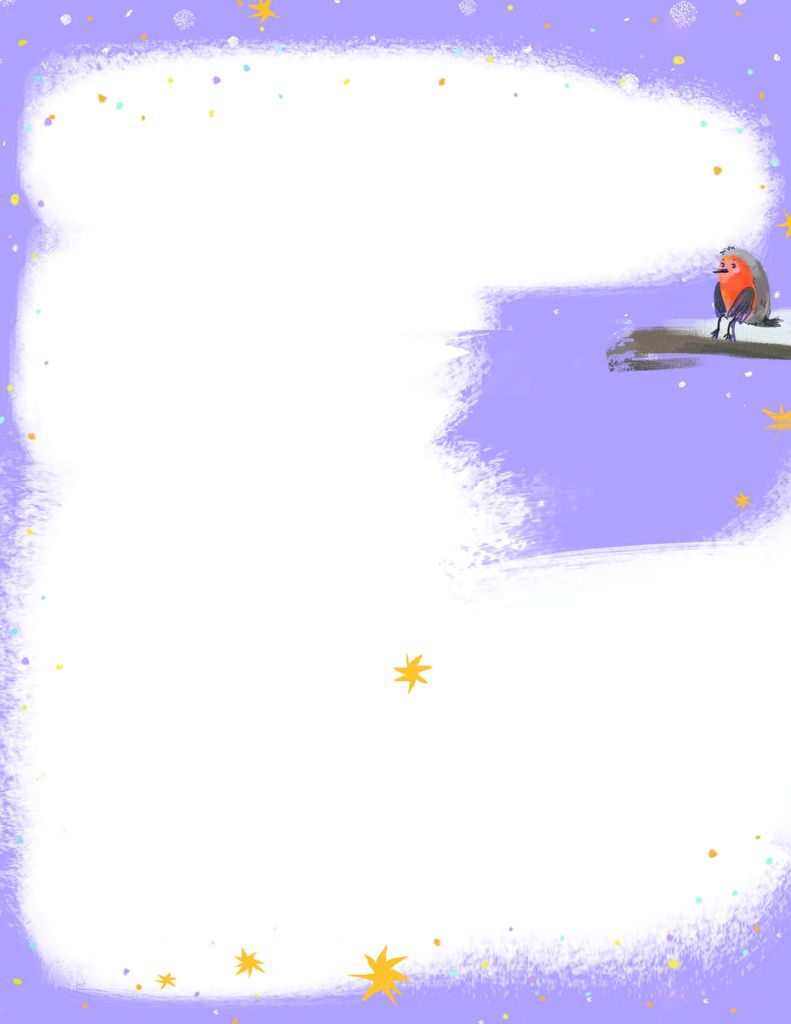
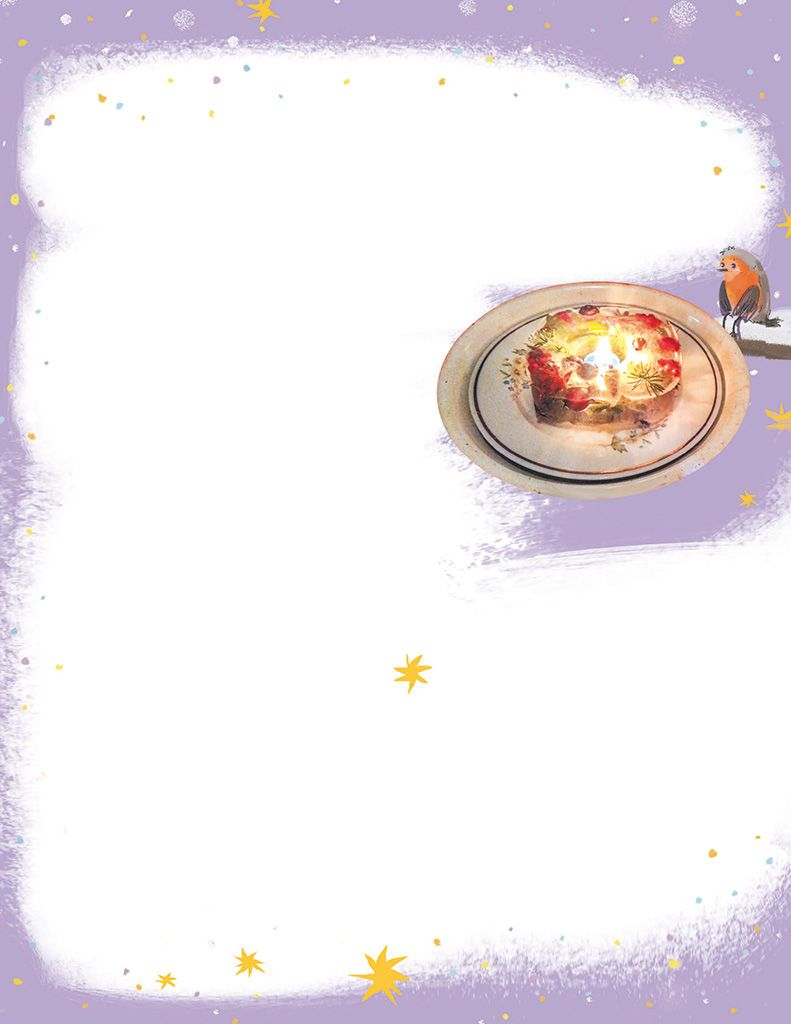
Сверстаны страницы 8, 9

Changed region(s): [[0.0, 0.0, 1.0, 1.0]]

diff --git a/p09.html b/p09.html
@@ -1,0 +1,160 @@
+<!DOCTYPE html>
+<html lang="rus">
+<head>
+	<meta charset="UTF-8">
+	<meta name="viewport" content="width=device-width, initial-scale=1.0">
+	<title>Страница 9</title>
+	<!-- Latest compiled and minified CSS -->
+	<link rel="stylesheet" href="https://maxcdn.bootstrapcdn.com/bootstrap/4.1.0/css/bootstrap.min.css">
+	<link rel="stylesheet" href="lightzoom/style.css" type="text/css">
+	<link rel="stylesheet" href="main.css">
+	<script src="https://ajax.googleapis.com/ajax/libs/jquery/2.2.4/jquery.min.js"></script>
+</head>
+<body>
+	<div class="main-container">
+		<div class="wrap-page">
+			<div class="page">
+				<div class="page__bg"><img src="img/bg/bg09.jpg"></div>
+                <div class="page__layer"></div>
+				<div class="wrap-content d-flex">
+					<div class="container-fluid">
+                        <div class="row content__row">
+                            <div class="col-12 col-sm-7">
+                                <div class="content__item">
+                                    <div class="content__text_wrapper">
+                                        <div class="content__text">
+                                            <p><span class="number color-white bg-color-orange">3.</span> Размести маленькую бутылку (так, что бы она не падала) в центре большой <i>(фото 3)</i>.</p>
+                                        </div>
+                                    </div>
+                                </div>
+                            </div>
+                            <div class="col-12 col-sm-5">
+                                <div class="content__item">
+                                    <a href="img/p09-3b.jpg" class="lightzoom">
+                                        <img src="img/p09-3s.jpg" alt="Рисунок 3" class="img-fluid">
+                                    </a>
+                                    <div class="content__marker color-orange">
+                                        3
+                                    </div>
+                                </div>
+                            </div>
+                        </div>
+                        <div class="row content__row">
+                            <div class="col-12 col-sm-7">
+                                <div class="content__item">
+                                    <div class="content__text_wrapper">
+                                        <div class="content__text">
+                                            <p><span class="number color-white bg-color-orange">4.</span> Залей свою природную композицию водой (следи, чтобы бутылка с камешками несмеща лась) и поставь в морозильник на сутки.</p>
+                                        </div>
+                                    </div>
+                                </div>
+                            </div>
+                        </div>
+                        <div class="row content__row">
+                            <div class="col-12 col-sm-7">
+                                <div class="content__item">
+                                    <div class="content__text_wrapper">
+                                        <div class="content__text">
+                                            <p><span class="number color-white bg-color-orange">5.</span> Накипяти воды и заполни ею большую глубокую миску на треть. Помести замёрзшую заго товку в миску с кипятком (вода должна подняться чуть выше ледяной кромки). Минут через 5 лёд по краю под свечника подтает <i>(фото 4)</i></p>
+                                        </div>
+                                    </div>
+                                </div>
+                            </div>
+                            <div class="col-12 col-sm-5">
+                                <div class="content__item">
+                                    <a href="img/p09-4b.jpg" class="lightzoom">
+                                        <img src="img/p09-4s.jpg" alt="Рисунок 4" class="img-fluid">
+                                    </a>
+                                    <div class="content__marker color-orange">
+                                        4
+                                    </div>
+                                </div>
+                            </div>
+                        </div>
+                        <div class="row content__row">
+                            <div class="col-12 col-sm-7">
+                                <div class="content__item">
+                                    <div class="content__text_wrapper">
+                                        <div class="content__text">
+                                            <p><span class="number color-white bg-color-orange">6.</span> Извлеки подсвечник из пластиковой основы, потянув за маленькую бутылку <i>(фото 5)</i>.</p>
+                                        </div>
+                                    </div>
+                                </div>
+                            </div>
+                            <div class="col-12 col-sm-5">
+                                <div class="content__item">
+                                    <a href="img/p09-5b.jpg" class="lightzoom">
+                                        <img src="img/p09-5s.jpg" alt="Рисунок 5" class="img-fluid">
+                                    </a>
+                                    <div class="content__marker color-orange">
+                                        5
+                                    </div>
+                                </div>
+                            </div>
+                        </div>
+                        <div class="row content__row">
+                            <div class="col-12 col-sm-7">
+                                <div class="content__item">
+                                    <div class="content__text_wrapper">
+                                        <div class="content__text">
+                                            <p><span class="number color-white bg-color-orange">7.</span> Теперь достань камешки и заполни кипятком маленькую бутылку, достань её через несколько минут <i>(фото 6)</i>.</p>
+                                        </div>
+                                    </div>
+                                </div>
+                            </div>
+                            <div class="col-12 col-sm-5">
+                                <div class="content__item">
+                                    <a href="img/p09-6b.jpg" class="lightzoom">
+                                        <img src="img/p09-6s.jpg" alt="Рисунок 6" class="img-fluid">
+                                    </a>
+                                    <div class="content__marker color-orange">
+                                        6
+                                    </div>
+                                </div>
+                            </div>
+                        </div>
+                        <div class="row content__row">
+                            <div class="col-12 col-sm-7">
+                                <div class="content__item">
+                                    <div class="content__text_wrapper">
+                                        <div class="content__text">
+                                            <p><span class="number color-white bg-color-orange">8.</span> Подсвечник готов! Осталось поместить в центр свечку <i>(фото 7)</i>.</p>
+                                        </div>
+                                    </div>
+                                </div>
+                            </div>
+                            <div class="col-12 col-sm-5">
+                                <div class="content__item">
+                                    <a href="img/p09-7b.jpg" class="lightzoom">
+                                        <img src="img/p09-7s.jpg" alt="Рисунок 7" class="img-fluid">
+                                    </a>
+                                    <div class="content__marker color-orange">
+                                        7
+                                    </div>
+                                </div>
+                            </div>
+                        </div>
+                        <div class="row content__row">
+                            <div class="col-12">
+                                <div class="content__item">
+                                    <div class="content__text_wrapper">
+                                        <div class="content__text">
+                                            <p class="text-indent">Ты, конечно, понимаешь, что при использовании такой подсвечник растает. По этому, пе ред тем как зажечь свечу, размести его в глубокой ёмкости.</p>
+                                        </div>
+                                    </div>
+                                </div>
+                            </div>
+                        </div>
+					</div>
+				</div>
+			</div>
+		</div>
+	</div>
+<script src="lightzoom/lightzoom.js"></script>
+
+<script type="text/javascript">
+  jQuery('.lightzoom').lightzoom();
+</script>
+
+</body>
+</html>

diff --git a/p08.html b/p08.html
@@ -15,6 +15,7 @@
 		<div class="wrap-page">
 			<div class="page page_8">
 				<div class="page__bg"><img src="img/bg/bg08.jpg"></div>
+                <div class="page__layer"></div>
 				<div class="wrap-content d-flex">
 					<div class="container-fluid">
 						<div class="row content__row">
@@ -43,7 +44,7 @@
                                     <div class="content__text_wrapper">
                                         <div class="content__text">
                                             <p class="content__title_pill color-white bg-color-orange">Тебе понадобится:</p>
-                                            <ul>
+                                            <ul class="page_8">
                                                 <li>две пластиковые бутылки&nbsp;— на 3 литра и на пол-литра;</li>
                                                 <li>камешки;</li>
                                                 <li>природный материал;</li>
@@ -68,7 +69,12 @@
                             </div>
                             <div class="col-12 col-sm-5">
                                 <div class="content__item">
-                                    <img src="img/p08-2s.jpg" alt="Рисунок 1" class="lightzoom">
+                                    <a href="img/p08-1b.jpg" class="lightzoom">
+                                        <img src="img/p08-1s.jpg" alt="Рисунок 1" class="img-fluid">
+                                    </a>
+                                    <div class="content__marker color-orange">
+                                        1
+                                    </div>
                                 </div>
                             </div>
                         </div>
@@ -84,7 +90,12 @@
                             </div>
                             <div class="col-12 col-sm-5">
                                 <div class="content__item">
-                                    <img src="img/p08-2s.jpg" alt="Рисунок 2">
+                                    <a href="img/p08-2b.jpg" class="lightzoom">
+                                        <img src="img/p08-2s.jpg" alt="Рисунок 2" class="img-fluid">
+                                    </a>
+                                    <div class="content__marker color-orange">
+                                        2
+                                    </div>
                                 </div>
                             </div>
                         </div>

diff --git a/main.css b/main.css
@@ -10,6 +10,16 @@ img {
 }
 
 /* Копировать отсюда */
+.order-1 {
+	-ms-flex-order: 1;
+	order: 1;
+}
+
+.order-2 {
+	-ms-flex-order: 2;
+	order: 2;
+}
+
 .color-purple {
 	color: #894E9F;
 }
@@ -64,6 +74,18 @@ img {
 	width: 100%;
 }
 
+@media only screen and (max-width: 768px) {
+	.page__layer {
+		position: absolute;
+		top: 0;
+		bottom: 0;
+		left: 0;
+		right: 0;
+		background-color: rgba(255, 255, 255, .4);
+	}
+}
+
+
 .wrap-content {
 	position: absolute;
 	top: 5%;
@@ -89,6 +111,21 @@ img {
 	font-size: 18px;
 }
 
+.content__qr {
+	max-width: 140px;
+	position: relative;
+}
+
+.content__qr_img {
+	position: absolute;
+	width: 28%;
+	top: 47%;
+    left: 47%;
+    margin-right: -50%;
+    transform: translate(-50%, -50%);
+
+}
+
 .content__author {
 	text-align: center;
     line-height: 1;
@@ -112,11 +149,11 @@ img {
 	font-size: 1.5em;
     text-align: center;
     line-height: 1;
-    margin-bottom: 2rem;
+    margin-bottom: 1.3rem;
 }
 
 .content__title_pill {
-	font-size: 1.6em;
+	font-size: 1.4em;
     line-height: 1;
     display: inline-block;
     padding: .25em .9em;
@@ -130,6 +167,20 @@ img {
 
 .page_8 .content__title {
 	font-size: 2.8em;
+	margin-bottom: 1.3rem;
+}
+
+ul.page_8 {
+	list-style-type: none;
+	padding-left: 1em;
+}
+
+ul.page_8 li::before {
+	content: '\25cf';
+    color: #F03F23;
+    margin-right: .5em;
+    font-size: 1.5em;
+    line-height: 0;
 }
 
 .content__text {
@@ -149,6 +200,19 @@ img {
     padding: 1em;
     border-radius: 18%;
 	box-shadow: 0 0 3em white;
+}
+
+.content__marker {
+	position: absolute;
+    top: 1.5em;
+    left: -0.5em;
+    width: 3.4em;
+    background-color: white;
+    text-align: right;
+    padding: .1em .7em;
+    border-radius: 20px;
+    font-size: .9em;
+	font-weight: 600;
 }
 
 

diff --git a/p07.html b/p07.html
@@ -15,6 +15,7 @@
 		<div class="wrap-page">
 			<div class="page">
 				<div class="page__bg"><img src="img/bg/bg07.jpg"></div>
+                <div class="page__layer"></div>
 				<div class="wrap-content d-flex">
 					<div class="container-fluid">
 						<div class="row align-items-end justify-content-between content__row">
@@ -50,6 +51,10 @@
                             </div>
                             <div class="col-12 col-md-6">
                                 <div class="content__item">
+                                    <div class="content__qr mb-5 mb-md-0">
+                                        <img src="img/p07-qr-bg.jpg" alt="QRCode" class="img-fluid">
+                                        <img src="img/musica.svg" alt="Прослушать" class="content__qr_img">
+                                    </div>
                                     <div class="content__author">
                                         Татьяна <span class="content__author_fam">Бокова</span>
                                     </div>
